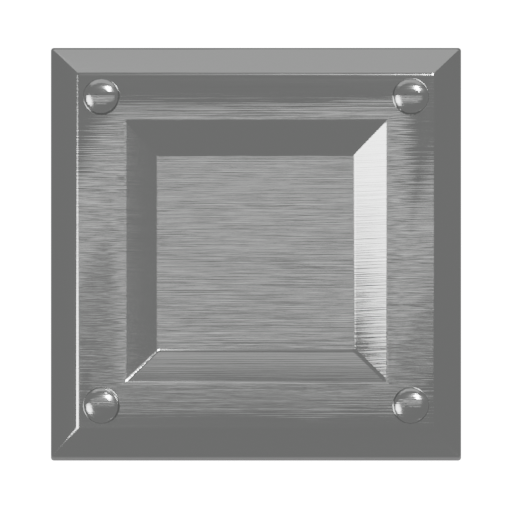
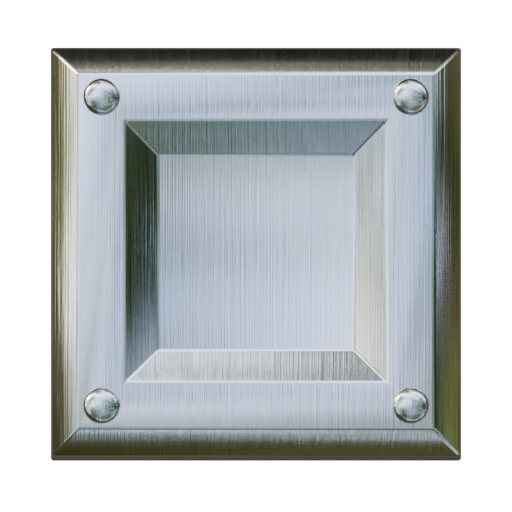
Light the locked plate with Material Previews own world
forest.exr at strength 1.0, no lamps at all. The plate looked like
metal in Material Preview the whole time this was being fought in
the render, and Material Preview is not doing anything clever - it
lights with one of the studiolight worlds that already ship.

An outdoor HDRI is the right shape for this piece: bright sky
overhead, dark ground and trees round the horizon. The flat faces
mirror the sky and come back bright, the 45-degree chamfers mirror
the horizon and come back dark. That is the lit-from-above reading
for free, out of an environment with real structure in it.

Removed: two dimmed studio lamps, a strip-light rig, a box of graded
emissive cards, a ray-type split on the background, and a global
exposure scale. Every one of them was a hand-built attempt at an
environment, and none came close to one already on disk.

brushed() is rewritten off the metal tutorials too: specular to
zero, and the brush is one noise stretched on object coordinates
rather than the pile it had become.

diff --git a/tools/blender/render_items.py b/tools/blender/render_items.py
@@ -598,83 +598,54 @@ def weathered(mat, strength=0.30, scale=48.0):
     return mat
 
 
-def brushed(mat, roughness=0.20, strength=0.42, anisotropy=0.8,
-            scale=(1.6, 340.0, 1.6)):
-    """Directional roughness: the thing that makes steel read as steel.
+def brushed(mat, roughness=0.35, spread=0.17, scale=(220.0, 1.4, 1.4)):
+    """Brushed steel, built the way the metal tutorials build it.
 
-    A metal with one flat roughness value has a single round highlight
-    and nothing else, which is what a snooker ball has - so it reads as
-    shiny PLASTIC no matter how high Metallic goes. Real rolled or
-    machined steel is covered in parallel tool marks, and each one
-    smears the highlight along its own direction. That smear is the
-    cue: it is why a stainless panel looks like metal in a photograph
-    even when there is nothing interesting nearby for it to mirror.
+    Three things, and none of them is the environment:
 
-    Built the way `grain` builds timber - noise squashed hard along one
-    axis - but driving ROUGHNESS rather than colour, because a metal
-    has no diffuse colour to vary. The lines run along x, which is the
-    screen horizontal on the plate's own camera.
+    1. ROUGHNESS IN THE MIDDLE, not at zero. Every attempt here
+       chased a mirror, and a mirror on a flat plate seen from
+       straight down can only ever show one patch of whatever is in
+       front of it - which is why a dozen lighting rigs all came back
+       looking the same. Real metal renders sit around 0.35 and get
+       their reflections from surface IMPERFECTIONS instead.
+
+    2. THOSE IMPERFECTIONS DRIVE ROUGHNESS, from a texture rather
+       than a number. Varying how polished the surface is from point
+       to point is what makes light break up across it.
+
+    3. THE BRUSH IS ONE STRETCHED NOISE: object coordinates through a
+       mapping node with the x scale run right up and y left near
+       0.1, so the noise smears into parallel lines. Lines run along
+       x, which is the screen horizontal on this plate's camera.
+
+    Specular is taken to zero as well - on a metal it does nothing
+    but put a rim on the silhouette.
     """
     nodes, links = mat.node_tree.nodes, mat.node_tree.links
     shader = _shader(mat)
-    noise = nodes.new("ShaderNodeTexNoise")
-    noise.inputs["Scale"].default_value = 5.0
-    noise.inputs["Detail"].default_value = 8.0
-    links.new(_texture_coords(mat, scale), noise.inputs["Vector"])
+    if "Specular IOR Level" in shader.inputs:
+        shader.inputs["Specular IOR Level"].default_value = 0.0
+
+    brush = nodes.new("ShaderNodeTexNoise")
+    brush.inputs["Scale"].default_value = 6.0
+    brush.inputs["Detail"].default_value = 6.0
+    links.new(_texture_coords(mat, scale), brush.inputs["Vector"])
     ramp = nodes.new("ShaderNodeValToRGB")
-    ramp.color_ramp.elements[0].color = (roughness * (1 - strength),) * 3 + (1.0,)
-    ramp.color_ramp.elements[1].color = (
-        min(1.0, roughness * (1 + strength)),) * 3 + (1.0,)
-    links.new(noise.outputs["Fac"], ramp.inputs["Fac"])
+    ramp.color_ramp.elements[0].color = (max(0.0, roughness - spread),) * 3 + (1.0,)
+    ramp.color_ramp.elements[1].color = (min(1.0, roughness + spread),) * 3 + (1.0,)
+    links.new(brush.outputs["Fac"], ramp.inputs["Fac"])
     links.new(ramp.outputs["Color"], shader.inputs["Roughness"])
 
-    # And the same lines as relief, faintly. AgX flattens a pure
-    # roughness variation more than it flattens a change in how much
-    # light a surface catches - the lesson `grain` records - so the
-    # streaks are given a little depth as well.
+    # The same lines as relief. Roughness alone is a shading change
+    # and AgX flattens those; a bump changes how much light a point
+    # actually catches, which survives the curve.
     bump = nodes.new("ShaderNodeBump")
-    bump.inputs["Strength"].default_value = 0.10
-    links.new(noise.outputs["Fac"], bump.inputs["Height"])
-
-    # WAVINESS, and this is the one that makes an environment show up.
-    #
-    # A flat face under an orthographic camera reflects in ONE
-    # direction at every point on it, so however much is in the room
-    # the whole face samples a single patch of it and comes back as
-    # one tone. Measured twice, on two different environments:
-    # raising either only lifted the darks (p5 127 to 219) while the
-    # median barely moved. Nothing to see, just more light.
-    #
-    # Curvature is what sweeps a room across a surface, and real
-    # rolled sheet is never flat - it has a slow, shallow waviness
-    # that is exactly why a steel panel shimmers instead of sitting
-    # there. Low frequency, tiny amplitude, chained ahead of the
-    # brush so the fine grain rides on top of it.
-    wave = nodes.new("ShaderNodeTexNoise")
-    wave.inputs["Scale"].default_value = 18.0
-    wave.inputs["Detail"].default_value = 1.0
-    links.new(_texture_coords(mat), wave.inputs["Vector"])
-    swell = nodes.new("ShaderNodeBump")
-    swell.inputs["Strength"].default_value = 0.50
-    links.new(wave.outputs["Fac"], swell.inputs["Height"])
-    links.new(swell.outputs["Normal"], bump.inputs["Normal"])
+    bump.inputs["Strength"].default_value = 0.15
+    links.new(brush.outputs["Fac"], bump.inputs["Height"])
     links.new(bump.outputs["Normal"], shader.inputs["Normal"])
-
-    # AND THE REAL THING: Anisotropic, pointed along a UV tangent.
-    #
-    # This was tried once and abandoned after it put a vortex through
-    # the middle of the plate. That was the right symptom and the
-    # wrong conclusion - Principled needs a tangent FIELD to stretch
-    # the highlight along, and Blender's default is RADIAL, which
-    # swirls about the object's origin by construction. A Tangent node
-    # in UV Map mode points it in a straight line instead, which is
-    # what the mesh gets `_flat_uvs` for.
-    if "Anisotropic" in shader.inputs:
-        tangent = nodes.new("ShaderNodeTangent")
-        tangent.direction_type = 'UV_MAP'
-        links.new(tangent.outputs["Tangent"], shader.inputs["Tangent"])
-        shader.inputs["Anisotropic"].default_value = anisotropy
     return mat
+
 
 
 # THE GLASS RECIPE, kept for the glass family.
@@ -3671,82 +3642,34 @@ LOCK_MEASURED = 0xc4c5c4
 # the game multiplies the cell by it, so it is a number both sides
 # have to agree on.
 # How far the studio's lamps are turned down for this pass.
+# MATERIAL PREVIEW'S OWN WORLD, at its own strength.
 #
-# NOT a taste knob - AgX compresses hard at the top, and at full power
-# the whole plate sat inside that shoulder: lit rim #e4e5e6, shadowed
-# rim #cdcfd2, a range of fourteen values across the entire piece. The
-# geometry was doing its job and the view transform was throwing the
-# result away. Pulling the exposure down moves the plate off the
-# shoulder and into the part of the curve that still has slope, which
-# is where its chamfers and its pocket get their contrast back.
-LOCK_LIGHT_SCALE = 0.30
-# How bright the room the plate mirrors is, and how rough its surface.
+# Blender's Material Preview lights with a studiolight world -
+# forest.exr at 1.0, no scene lamps - and the plate looked like metal
+# in it the whole time this was being fought in the render. An
+# outdoor HDRI happens to be the right shape for a piece like this:
+# bright sky overhead, dark ground and trees round the horizon. The
+# flat faces mirror the sky and come back bright, the 45-degree
+# chamfers mirror the horizon and come back dark, and that is the
+# lit-from-above reading for free.
 #
-# A metal is nothing but its reflections, so this is not a background
-# setting - it is most of the plate's appearance.
-LOCK_HDRI_STRENGTH = 0.03
-# What the REFLECTIONS see the room at, as opposed to everything
-# else. Split apart because they want opposite things: a room worth
-# mirroring is far brighter than one that should quietly fill
-# shadows, and a single strength can only ever serve one of them.
-LOCK_HDRI_GLOSSY = 0.35
-# STUDIO, NOT INTERIOR - and measured rather than picked.
+# It is desaturated on the way in - the shape of the environment is
+# what is wanted, not the fact that it is green.
 #
-# The board uses interior.exr and there is a note above explaining
-# why, but it is the wrong file for a mirror. Sampled across every
-# world Blender ships, interior's MEDIAN is 0.291: an evenly lit
-# room, so turning it up for reflections only ever filled the
-# shadows - p5 went 144, 169, 185, 197 across a sweep while the
-# median sat still. Nothing to see, just more light.
-#
-# studio.exr has a median of 0.005 and sources to 471. That is a
-# black room with bright panels in it, which is what a lightbox IS,
-# and the only kind of environment a polished surface can show you
-# anything of.
-LOCK_HDRI = "studio.exr"
+# What this replaced: two dimmed studio lamps, a strip-light rig, a
+# box of graded emissive cards, a ray-type split on the background,
+# and a global exposure scale. All of them hand-built attempts at an
+# environment, none of them as good as one that already shipped.
+LOCK_HDRI = "forest.exr"
+LOCK_HDRI_STRENGTH = 1.0
+# Sharp enough to SHOW the environment. At 0.35 the reflection is
+# averaged into a wash and the room disappears back into grey.
 LOCK_ROUGHNESS = 0.12
+# How much of the world's colour survives. 0 is fully neutral steel
+# and throws the environment away with the green; 1 is the forest as
+# Material Preview shows it.
+LOCK_SATURATION = 1.0
 LOCK_METALLIC = 1.0
-# The softbox directly over the plate: its size in world units, how
-# far above it sits, and how hard it burns.
-#
-# Required by Metallic 1.0, not a taste knob. A metal has no diffuse,
-# so a face seen from straight down shows whatever is straight above
-# it - and what is above it here is the ceiling of an interior HDRI,
-# which is dark. At full metal that renders a black tile with chrome
-# along the chamfers, which is exactly what came back. A big square
-# source overhead is what a photographer puts there for the same
-# reason, and a square one because the plate is square: it mirrors as
-# a sheen the shape of the piece rather than a disc floating on it.
-# A STRIP-LIT BOX, not one soft source.
-#
-# What a metal shows is its surroundings, so an even wash of light
-# gives evenly lit reflections - which is what a matte painted
-# surface looks like, and what this kept coming back as. Product
-# photographers shoot flat metal in front of long STRIP softboxes for
-# exactly this reason: a strip mirrors as a hard-edged bright bar,
-# and bars against dark are what the eye reads as polish.
-#
-# Three sources, each aimed at a different part of the piece:
-#
-#  - the PANEL stands off the top of the frame facing the plate. A
-#    45-degree chamfer turns a ray from this camera through ninety
-#    degrees, so chamfers do not mirror anything overhead at all -
-#    they mirror the HORIZON, which is why they kept going black. The
-#    panel is something at the horizon for the top one to find, and
-#    the bottom one faces the other way and stays dark. That pair is
-#    the whole lit-from-above read.
-#  - the STRIPS hang over the plate and land as bars across the flat
-#    floor and land, which is the 56% of the area that was one dead
-#    value.
-#  - the studio KEY stays for the bolt heads.
-LOCK_PANEL_SIZE = (1.00, 0.50)
-LOCK_PANEL_AT = (0.0, -0.60, 0.12)
-LOCK_PANEL_POWER = 0.60
-LOCK_STRIPS = (
-    # (size x, size y, position, power)
-    ((0.90, 0.035), (0.0, -0.050, 0.45), 0.10),
-    ((0.90, 0.020), (0.0, 0.045, 0.55), 0.05),
-)
 LOCK_FRAME_CELLS = 1.25
 LOCK_PX = 512
 
@@ -3937,102 +3860,53 @@ def render_locked_plate():
     cam.rotation_euler = (tilt, 0.0, math.pi)
     bpy.context.scene.camera = cam
 
-    # THE STUDIO'S LAMPS AT FULL POWER, not the board's dimmed pass.
-    # What this has to sit beside is the items, and they are lit at
-    # full - the board is turned down because dark glass under lamps
-    # sized for a thing you could hold came back as light grey tile,
-    # which is not a problem a steel plate has.
-    build_lights()
-    for name in ("KeyLight", "FillLight"):
-        lamp = bpy.data.objects.get(name)
-        if lamp is not None:
-            lamp.data.energy *= LOCK_LIGHT_SCALE
-    # THE BOX AROUND IT - see LOCK_PANEL_SIZE.
-    def rect(name, size, loc, power, rotation):
-        data = (bpy.data.lights.get(name)
-                or bpy.data.lights.new(name, type='AREA'))
-        data.type = 'AREA'
-        data.shape = 'RECTANGLE'
-        data.size, data.size_y = size
-        data.energy = power
-        ob = bpy.data.objects.get(name)
-        if ob is None:
-            ob = bpy.data.objects.new(name, data)
-            bpy.context.collection.objects.link(ob)
-        ob.data = data
-        ob.location = loc
-        ob.rotation_euler = rotation
-        return ob
-
+    # MATERIAL PREVIEW'S OWN ENVIRONMENT, AND NOTHING ELSE.
+    #
+    # This is what the whole lighting effort should have been. The
+    # plate looked like metal in Material Preview the entire time, and
+    # Material Preview is not doing anything clever - it lights with
+    # one of Blender's studiolight worlds, forest.exr, at strength
+    # 1.0, with no scene lamps at all.
+    #
+    # An outdoor HDRI is the right shape for this piece by accident:
+    # bright sky overhead, dark ground and trees round the horizon. A
+    # flat face seen from above mirrors the sky and comes back bright;
+    # a 45-degree chamfer mirrors the horizon and comes back dark.
+    # That is the lit-from-above reading, for free, out of a real
+    # environment with real structure in it - which is the one thing
+    # every rig built here was missing.
+    #
+    # Everything else is gone: no area lamps, no emissive card box, no
+    # ray-type split, no exposure scaling. They were all attempts to
+    # hand-build what this file already contains.
+    # EVERY LAMP GOES, including any rig left over from an older run
+    # of this same function. `build_lights` used to be what cleared
+    # those and it is no longer called from here - without this the
+    # pass quietly renders under a previous version's lighting, which
+    # it did once already.
+    for lamp in [o for o in bpy.data.objects if o.type == 'LIGHT']:
+        bpy.data.objects.remove(lamp, do_unlink=True)
     _lock_rig = []
-    # Stood on its edge facing the plate. An area lamp points down its
-    # own -z, so a quarter turn about x aims it at +y.
-    _lock_rig.append(rect("LockPanel", LOCK_PANEL_SIZE, LOCK_PANEL_AT,
-                          LOCK_PANEL_POWER, (math.radians(90), 0.0, 0.0)))
-    for index, (size, loc, power) in enumerate(LOCK_STRIPS):
-        _lock_rig.append(rect("LockStrip%d" % index, size, loc, power,
-                              (0.0, 0.0, 0.0)))
 
-    # A ROOM FOR THE STEEL TO MIRROR, replacing the studio's near-black
-    # sky - and the reason Metallic 1.0 is usable here at all.
-    #
-    # A flat face seen from overhead reflects whatever is directly
-    # above it. Under the item studio that is a sky at 0.055, so a
-    # mirror-finish plate returns almost nothing and comes back as a
-    # black square with two lamp dots on it. The same HDRI the board
-    # experimented with puts a ceiling up there instead, and the plate
-    # gets the broad soft gradient across its face that says polished
-    # metal.
-    #
-    # Called after the camera is placed: it turns the environment by
-    # the camera's own rotation, so the ceiling fixtures land in frame
-    # rather than somewhere behind it.
     world = _board_environment()
-    nodes, links = world.node_tree.nodes, world.node_tree.links
-    background = next(n for n in nodes if n.type == 'BACKGROUND')
-    background.inputs["Strength"].default_value = LOCK_HDRI_STRENGTH
-    # A SECOND, BRIGHTER COPY OF THE ROOM, FOR REFLECTIONS ONLY.
-    #
-    # A metal shows the room and nothing else, so the room wants to
-    # be bright - but one strength feeds every ray, and turning it up
-    # floods the piece and flattens it. A Light Path node knows which
-    # kind of ray is asking, so glossy rays get the room at
-    # LOCK_HDRI_GLOSSY and the rest keep the dim one. The same split
-    # `build_lights` already uses to give the gems a lit box to
-    # refract without flooding the studio.
-    mirror = nodes.new("ShaderNodeBackground")
-    for link in list(links):
-        if link.to_node is background and link.to_socket.name == "Color":
-            links.new(link.from_socket, mirror.inputs["Color"])
-    mirror.inputs["Strength"].default_value = LOCK_HDRI_GLOSSY
+    nodes = world.node_tree.nodes
     for node in nodes:
+        if node.type == 'BACKGROUND':
+            node.inputs["Strength"].default_value = LOCK_HDRI_STRENGTH
         if node.type == 'TEX_ENVIRONMENT':
             node.image = bpy.data.images.load(
                 os.path.join(bpy.utils.system_resource(
                     'DATAFILES', path="studiolights/world"), LOCK_HDRI),
                 check_existing=True)
-    path = nodes.new("ShaderNodeLightPath")
-    mix = nodes.new("ShaderNodeMixShader")
-    links.new(path.outputs["Is Glossy Ray"], mix.inputs["Fac"])
-    links.new(background.outputs["Background"], mix.inputs[1])
-    links.new(mirror.outputs["Background"], mix.inputs[2])
-    links.new(mix.outputs["Shader"],
-              next(n for n in nodes if n.type == 'OUTPUT_WORLD').inputs["Surface"])
-    for node in nodes:
-        # THE ROOM DOES NOT GET SPUN WITH THE CAMERA.
-        #
-        # `_board_environment` turns the environment by the camera's
-        # whole rotation, which is right for the board - it reproduces
-        # what the viewport does. This camera carries an extra 180
-        # degrees about z, put there so the key lamp reads from the
-        # top of the frame, and that took the room round with it: the
-        # HDRI's bright side landed at the BOTTOM, and it beat the
-        # lamp. Measured, the plate's top chamfer came back #797978
-        # against #8b8c8b at the bottom - lit from below, while every
-        # item standing on the board is lit from above.
+        # NOT SPUN WITH THE CAMERA. `_board_environment` turns the
+        # environment by the camera's whole rotation to reproduce what
+        # the viewport does when orbiting; this camera carries an
+        # extra 180 degrees about z, and taking the sky round with it
+        # put the ground overhead.
         if node.type == 'MAPPING':
-            node.inputs["Rotation"].default_value = (
-                math.radians(BOARD_TILT_DEG), 0.0, 0.0)
+            node.inputs["Rotation"].default_value = (0.0, 0.0, 0.0)
+        if node.type == 'HUE_SAT':
+            node.inputs["Saturation"].default_value = LOCK_SATURATION
     configure_render()
     sc = bpy.context.scene
     sc.render.resolution_x = sc.render.resolution_y = LOCK_PX
